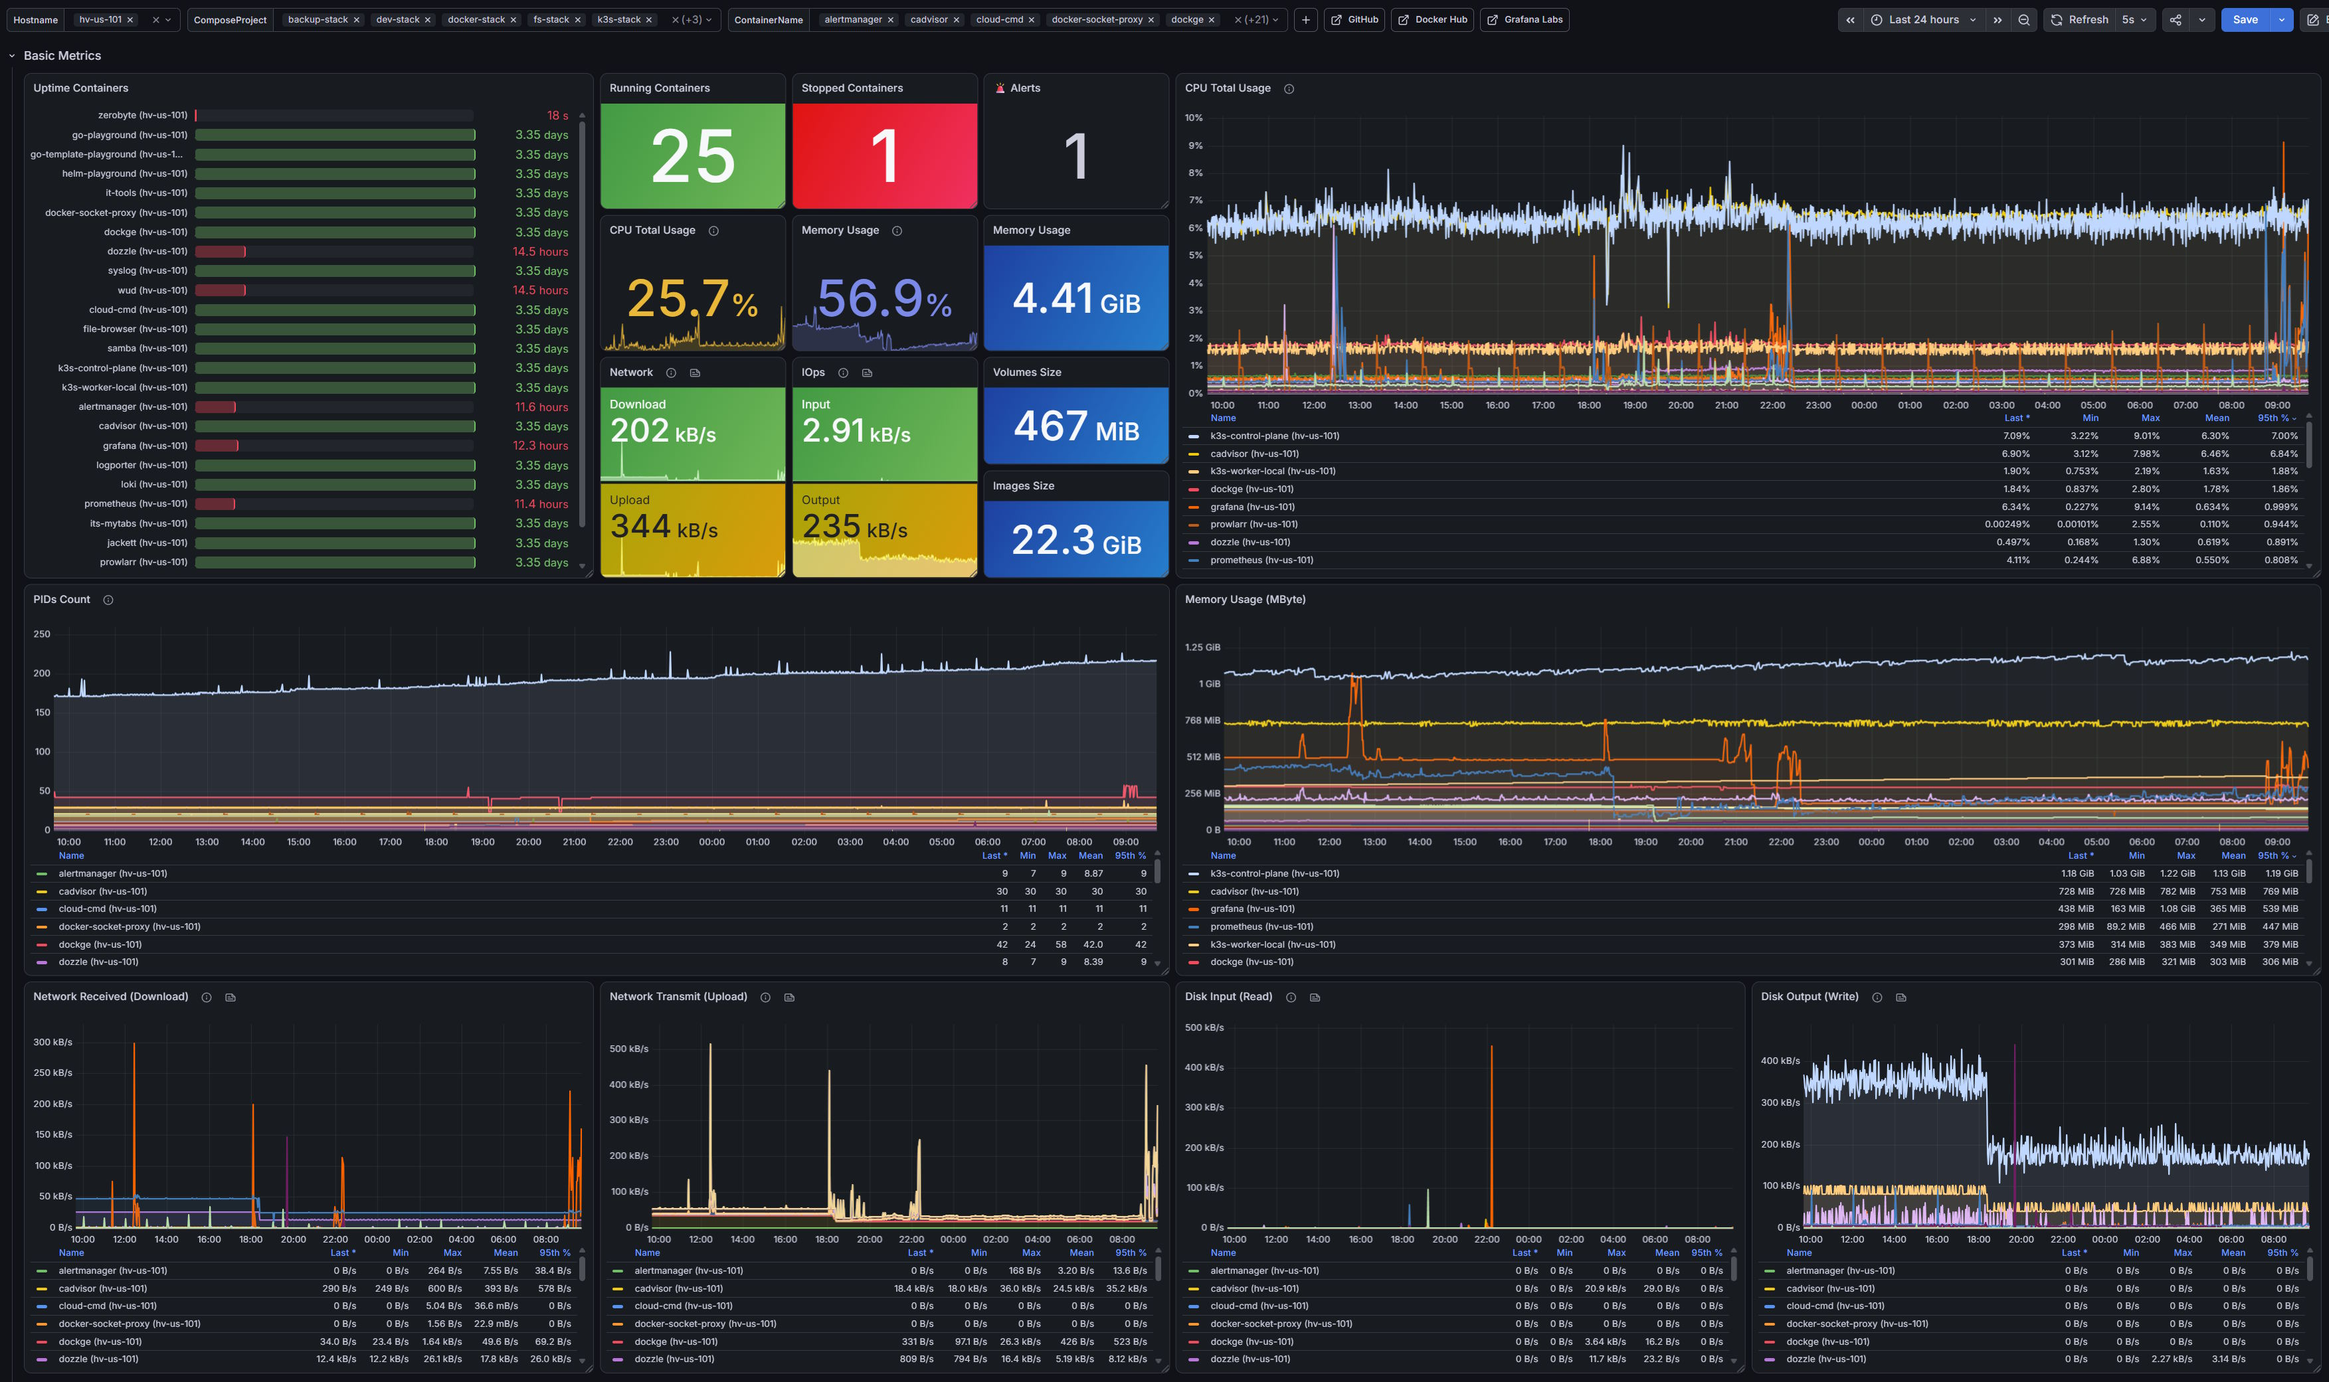
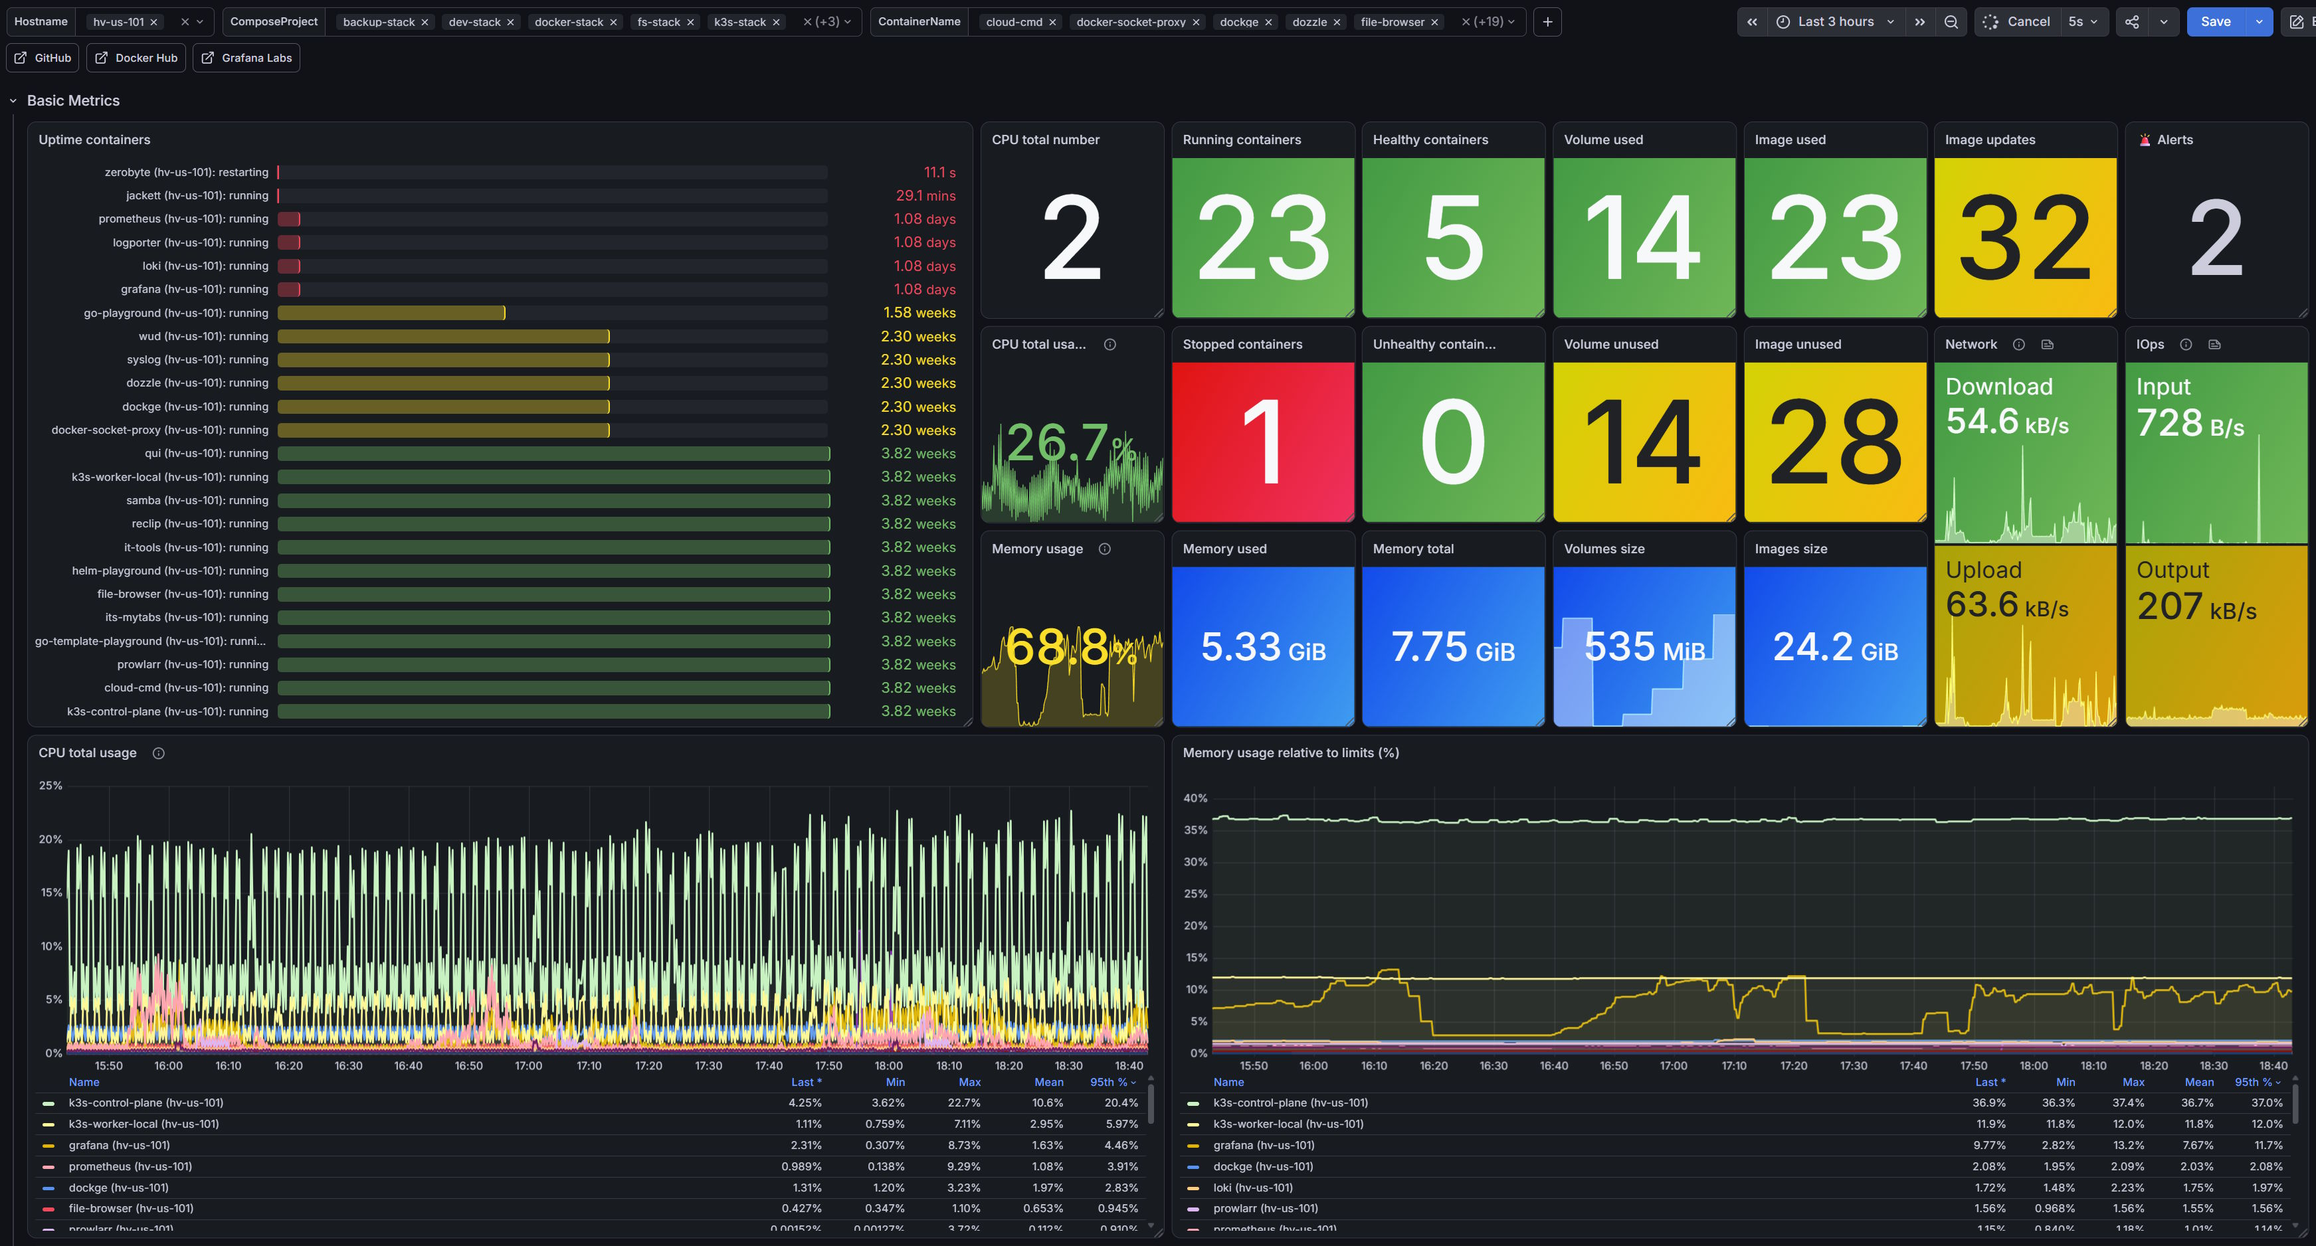
update readme and examples

diff --git a/README.md b/README.md
@@ -3,11 +3,11 @@
 [![Docker Hub Pulls](https://img.shields.io/docker/pulls/lifailon/logporter?label=Docker+Hub+Pulls&logo=docker)](https://hub.docker.com/r/lifailon/logporter) \
 [![Docker Image Size](https://img.shields.io/docker/image-size/lifailon/logporter?label=Docker+Image+Size&logo=docker)](https://hub.docker.com/r/lifailon/logporter/tags)
 
-A lightweight alternative to [cAdvisor](https://github.com/google/cadvisor) for exporting metrics from Docker containers and a log collector for sending to Loki, with support for filtering by compose labels.
+A lightweight alternative to 🦉 [cAdvisor](https://github.com/google/cadvisor) for exporting metrics from Docker containers, a log collector for sending to Lok, and searching for new image versions in remote registries based on semantic analysis of tags or digests in a single container.
 
 ## Performance
 
-Comparative CPU and memory usage measurements using `logporter` with log collection enabled (left) and `cAdvisor` (right) over a 24-hour period for 25 containers:
+Comparative CPU and memory usage measurements using `logporter` with log collection enabled (left) and `cAdvisor` in a default configuration (right) over 24 hour for 25 containers:
 
 ![](/img/logporter-vs-cadvisor.jpg)
 
@@ -33,13 +33,15 @@ Go to Grafana UI: `http://localhost:3000` and enter `admin`:`admin`.
 
 ```bash
 docker run -d --name logporter \
-  -v /var/run/docker.sock:/var/run/docker.sock \
+  -v /var/run/docker.sock:/var/run/docker.sock:ro \
   -p 9333:9333 \
   --restart=always \
   lifailon/logporter:latest
 ```
 
-Or use [compose](https://github.com/docker/compose) to securely use the docker socket through a proxy:
+All metrics are retrieved directly from the Docker socket, which requires read-only access (`:ro`).
+
+Or use [compose](https://github.com/docker/compose) to fine-tune access to the Docker socket through a proxy:
 
 ```yaml
 services:
@@ -58,20 +60,29 @@ services:
     restart: always
     environment:
       - CONTAINERS=1
+      - INFO=1
+      - SYSTEM=1
+      - IMAGES=1
+      - DISTRIBUTION=1
+      - ALLOW_LOGS=1
     volumes:
       - /var/run/docker.sock:/var/run/docker.sock:ro
 ```
 
 List of environment variables to configure:
 
-| Label                         | Type      | Default | Description                                                                                                                         |
-| -                             | -         | -       | -                                                                                                                                   |
-| `DOCKER_METRICS_PORT`         | `int`     | `9333`  | The port on which the exporter is listening.                                                                                        |
-| `DOCKER_METRICS_HOSTNAME`     | `string`  | `""`    | Custom hostname displayed in Prometheus and Loki labels.                                                                            |
-| `DOCKER_METRICS_CACHE`        | `int`     | `15`    | Cache time for all collected metrics in seconds. Until the cache expires, queried metrics will return the last value received.      |
-| `DOCKER_METRICS_VOLUME`       | `boolean` | `true`  | Enable metrics collection for all volumes and their size. Data collection occurs in the background, without waiting for scrape.     |
-| `DOCKER_METRICS_VOLUME_CACHE` | `int`     | `30`    | Cache time for collected volumes metrics in minutes.                                                                                |
-| `DOCKER_HOST`                 | `string`  | `""`    | Change the socket address to monitor a remote host or proxy instead of mounting a Docker socket for increased security (optional).  |
+| Label                           | Type      | Default | Description
+| -                               | -         | -       | -
+| `LOG_LEVEL`                     | `string`  | `info`  | Use debug to get detailed output of the exporter operation or error to suppress the output of info messages
+| `DOCKER_METRICS_PORT`           | `int`     | `9333`  | The port on which the exporter is listening
+| `DOCKER_METRICS_HOSTNAME`       | `string`  | `""`    | Custom hostname displayed in Prometheus and Loki labels (by default from Docker API or OS)
+| `DOCKER_METRICS_CUSTOM_LABELS`  | `string`  | `""`    | List of custom labels that will be added to all container metrics (only if present, e.g. `org.opencontainers.image.version`)
+| `DOCKER_METRICS_CACHE`          | `int`     | `15`    | Cache time for all collected metrics in seconds. Until the cache expires, queried metrics will return the last value received
+| `DOCKER_METRICS_VOLUME`         | `boolean` | `true`  | Enable metrics collection for all volumes and their size. Data collection occurs in the background, without waiting for scrape
+| `DOCKER_METRICS_VOLUME_CACHE`   | `int`     | `30`    | Cache time for collected volumes metrics in minutes.         
+| `DOCKER_METRICS_IMAGE_UPDATE`   | `boolean` | `true`  | Enable digest-based update check metric
+| `DOCKER_METRICS_IMAGE_INTERVAL` | `int`     | `30`    | Image update check interval in minutes
+| `DOCKER_HOST`                   | `string`  | `""`    | Change the socket address to monitor a remote host or proxy instead of mounting a Docker socket for increased security (optional)
 
 - Connect the new target to the Prometheus configuration file:
 
@@ -89,23 +100,21 @@ scrape_configs:
 
 ![](/img/basic-metrics.jpg)
 
-- Mount the alert [rules](https://github.com/Lifailon/logporter/blob/main/prometheus/alert/rules.yml) file to your Prometheus container at `/etc/prometheus/alert.yml` (this is a basic example, you can customize it to suit your needs) to display the number and list of alerts in the Grafana dashboard.
-
-![](/img/storage-metrics.jpg)
+![](/img/custom-metrics.jpg)
 
 ### Loki
 
 - Configure a connection with Loki to send logs using environment variables:
 
-| Label                         | Type      | Default | Description                                                                     |
-| -                             | -         | -       | -                                                                               |
-| `LOKI_URL`                    | `string`  | `""`    | Loki server address and port.                                                   |
-| `LOKI_USERNAME`               | `string`  | `""`    | basic auth username for Loki (optional).                                        |
-| `LOKI_PASSWORD`               | `string`  | `""`    | basic auth password for Loki (optional).                                        |
-| `LOKI_TENANT_ID`              | `string`  | `""`    | Tenant id sent in the `X-Scope-OrgID` header (optional).                        |
-| `LOKI_PUSH_SECONDS`           | `int`     | `5`     | Maximum wait time in seconds before pushing the batch to Loki.                  |
-| `LOKI_PUSH_LINES`             | `int`     | `1000`  | Maximum number of log entries (lines) before pushing the batch in one request.  |
-| `LOKI_BUFFER_LINES`           | `int`     | `10000` | Buffer size in entries before they are dropped (memory protection).             |
+| Label                         | Type      | Default | Description
+| -                             | -         | -       | -
+| `LOKI_URL`                    | `string`  | `""`    | Loki server address and port
+| `LOKI_USERNAME`               | `string`  | `""`    | basic auth username for Loki (optional)
+| `LOKI_PASSWORD`               | `string`  | `""`    | basic auth password for Loki (optional)
+| `LOKI_TENANT_ID`              | `string`  | `""`    | Tenant id sent in the `X-Scope-OrgID` header (optional)
+| `LOKI_PUSH_SECONDS`           | `int`     | `5`     | Maximum wait time in seconds before pushing the batch to Loki
+| `LOKI_PUSH_LINES`             | `int`     | `1000`  | Maximum number of log entries (lines) before pushing the batch in one request
+| `LOKI_BUFFER_LINES`           | `int`     | `10000` | Buffer size in entries before they are dropped (memory protection)
 
 By default, metrics collection is disabled if the `LOKI_URL` variable is empty.
 
@@ -115,32 +124,47 @@ By default, metrics collection is disabled if the `LOKI_URL` variable is empty.
 
 ## List of metrics
 
-| Name                               | Data type   | Help description                                                                                    |
-| -                                  | -           | -                                                                                                   |
-| docker_image_size                  | `gauge`     | The size of the image minus the layer shared by other images                                        |
-| docker_volume_size                 | `gauge`     | The size of the volumes and the number of containers associated with it in the volumeUsage tag      |
-| docker_container_status            | `gauge`     | Container status: running (1) or stopped (0)                                                        |
-| docker_cpu_usage_total             | `counter`   | Total CPU usage (user and kernel) in seconds                                                        |
-| docker_cpu_usage_user              | `counter`   | User CPU usage in seconds                                                                           |
-| docker_cpu_usage_kernel            | `counter`   | Kernel CPU usage in seconds                                                                         |
-| docker_memory_total                | `gauge`     | Total memory size in bytes                                                                          |
-| docker_memory_usage                | `gauge`     | Usage memory size in bytes                                                                          |
-| docker_network_received_bytes      | `counter`   | Number of bytes received on the network                                                             |
-| docker_network_received_packages   | `counter`   | Number of packages received on the network                                                          |
-| docker_network_transmit_bytes      | `counter`   | Number of bytes transmitted on the network                                                          |
-| docker_network_transmit_packages   | `counter`   | Number of packages transmitted on the network                                                       |
-| docker_io_read_bytes               | `counter`   | Number of bytes read by the block device                                                            |
-| docker_io_write_bytes              | `counter`   | Number of bytes write by the block device                                                           |
-| docker_process_pids_count          | `gauge`     | Number of running processes and threads                                                             |
-| docker_started_time                | `gauge`     | Container started time                                                                              |
+| Name                                | Data type     | Help description
+| -                                   | -             | -
+| docker_image_count                  | `gauge`       | Number of images
+| docker_image_size                   | `gauge`       | The size of the image minus the layer shared by other images
+| docker_image_update                 | `gauge`       | Image update status based on digests: update required (1) or latest version (0)
+| docker_volume_size                  | `gauge`       | The size of the volumes and the number of containers associated with it in the volumeUsage tag
+| docker_container_running_count      | `gauge`       | Number of running containers
+| docker_container_stopped_count      | `gauge`       | Number of stopped containers
+| docker_container_status             | `gauge`       | Container status: running (1) or stopped (0)
+| docker_container_healthy            | `gauge`       | Health check status
+| docker_started_time                 | `gauge`       | Container started timestamp
+| docker_exit_code                    | `gauge`       | Container exit code
+| docker_oom_killed                   | `gauge`       | Memory limit exceeded
+| docker_size_rw                      | `gauge`       | Size of the container writable layer in bytes
+| docker_size_root_fs                 | `gauge`       | Total size of the container filesystem in bytes (shared image layers and writable layer)
+| docker_bind_mounts                  | `gauge`       | Number of volumes mounted on host file system
+| docker_volume_mounts                | `gauge`       | Number of local volumes mounted
+| docker_cpu_total_number             | `gauge`       | Total available vCPUs
+| docker_cpu_usage_total              | `counter`     | Total CPU usage (user and kernel) in seconds
+| docker_cpu_usage_user               | `counter`     | User CPU usage in seconds
+| docker_cpu_usage_kernel             | `counter`     | Kernel CPU usage in seconds
+| docker_memory_total                 | `gauge`       | Total memory size in bytes 
+| docker_memory_current_limit         | `gauge`       | Current memory limit size in bytes (if no value is specified, the total amount of available memory is displayed)
+| docker_memory_inspect_limit         | `gauge`       | Memory limit size in bytes specified in the launch options (if the value is 0, then no limit is set)
+| docker_memory_usage                 | `gauge`       | Usage memory size in bytes 
+| docker_network_received_bytes       | `counter`     | Number of bytes received on the network
+| docker_network_received_packages    | `counter`     | Number of packages received on the network
+| docker_network_transmit_bytes       | `counter`     | Number of bytes transmitted on the network
+| docker_network_transmit_packages    | `counter`     | Number of packages transmitted on the network
+| docker_io_read_bytes                | `counter`     | Number of bytes read by the block device
+| docker_io_write_bytes               | `counter`     | Number of bytes write by the block device
+| docker_process_pids_count           | `gauge`       | Number of running processes and threads
 
-List of available labels for filtering:
+List of available labels for container filtering:
 
-| Label             | Description                                                                                         |
-| -                 | -                                                                                                   |
-| `hostname`        | Hostname obtained from the Docker API or custom from the `DOCKER_METRICS_HOSTNAME` variable.        |
-| `containerId`     | Unique container identifier.                                                                        |
-| `containerName`   | Container name from `container_name` in compose file.                                               |
-| `composeProject`  | Name of the compose project (usually the name of the directory where the compose file is located).  |
-| `composeService`  | Name of the service in the compose project (may differ from `containerName`).                       |
-| `composeWorkDir`  | Path to the directory with the compose stack on the host.                                           |
+| Label             | Description
+| -                 | - 
+| `hostname`        | Hostname obtained from the Docker API or custom from the `DOCKER_METRICS_HOSTNAME` variable
+| `containerId`     | Unique container identifier
+| `containerName`   | Container name from `container_name` in compose file
+| `containerState`  | The current status of the container (if the state is not running, then only inspect metrics are available)
+| `composeProject`  | Name of the compose project (usually the name of the directory where the compose file is located)
+| `composeService`  | Name of the service in the compose project (may differ from `containerName`)
+| `composeWorkDir`  | Path to the directory with the compose stack on the host
